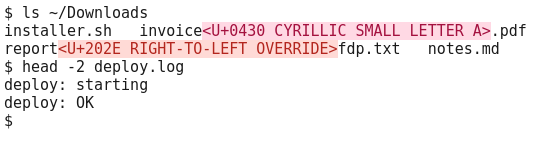
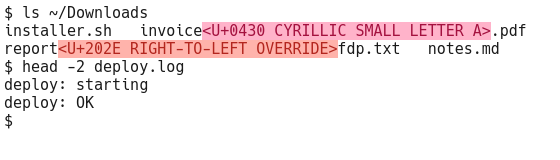
shots: regenerate the paste/copy review shots without dead space
- paste-warning/copy-warning: were 1180x258 with a screenful of empty pane below
  the one-line payload; regenerated tight at 1188x112 (panes sized to content,
  scrollbars off, trimmed to a uniform margin) by the fixed generator.
- index.html: update the two img width/height attrs to 1188x112 so the site
  reserves the right aspect (width:100%/height:auto derives it from the attrs).
- hero/display-modes: regenerated from the same deterministic pipeline with the
  app's Hack font; visually identical (AA-only), dimensions unchanged.

## AI-Assisted

diff --git a/index.html b/index.html
@@ -222,7 +222,7 @@
   <figure class="shot" style="max-width:1000px;margin:28px auto 0">
     <figcaption class="shotname"><b>The paste review</b> - a <code>curl | bash</code> line hiding two Cyrillic
       homoglyphs (in <code>example</code> and <code>bash</code>), a zero-width space and a right-to-left override.</figcaption>
-    <a href="/shots/paste-warning.webp" target="_blank" rel="noopener"><img src="/shots/paste-warning.webp" width="1180" height="258" loading="lazy" alt="secure-terminal's in-window paste-review bar showing the hostile paste four ways: the Original pane, where the bidi override reorders the trailing comment; the Detail pane, naming each hidden character inline in its risk-class colour as U+0430 CYRILLIC SMALL LETTER A, U+200B ZERO WIDTH SPACE and U+202E RIGHT-TO-LEFT OVERRIDE; the Paste-stripped pane, where the homoglyph domain collapses to exmple.com and 'bash' to 'bsh'; and the Paste-with-unicode pane, which keeps the look-alike example.com (its Cyrillic a tinted) but drops the invisibles. Both send buttons are countdown-disabled; only Reject is available immediately."></a>
+    <a href="/shots/paste-warning.webp" target="_blank" rel="noopener"><img src="/shots/paste-warning.webp" width="1188" height="112" loading="lazy" alt="secure-terminal's in-window paste-review bar showing the hostile paste four ways: the Original pane, where the bidi override reorders the trailing comment; the Detail pane, naming each hidden character inline in its risk-class colour as U+0430 CYRILLIC SMALL LETTER A, U+200B ZERO WIDTH SPACE and U+202E RIGHT-TO-LEFT OVERRIDE; the Paste-stripped pane, where the homoglyph domain collapses to exmple.com and 'bash' to 'bsh'; and the Paste-with-unicode pane, which keeps the look-alike example.com (its Cyrillic a tinted) but drops the invisibles. Both send buttons are countdown-disabled; only Reject is available immediately."></a>
     <figcaption>The four panes read left to right: the <b>Original</b> as it arrives, <b>Detail</b> naming every
       hidden character inline (<code>&lt;U+0430 CYRILLIC SMALL LETTER A&gt;</code>), and the two send previews -
       <b>Stripped</b> drops the look-alikes so the domain changes to <code>exmple.com</code>, while
@@ -232,7 +232,7 @@
   <figure class="shot" style="max-width:1000px;margin:28px auto 0">
     <figcaption class="shotname"><b>The same bar, for copy going the other way</b> - selecting and copying that
       same line in Show mode, before it reaches the system clipboard.</figcaption>
-    <a href="/shots/copy-warning.webp" target="_blank" rel="noopener"><img src="/shots/copy-warning.webp" width="1180" height="258" loading="lazy" alt="secure-terminal's review bar for a copy: the summary reads 'This copy would carry 1 bidirectional control, 1 invisible character, 2 non-ASCII characters onto the clipboard'; the four panes are Original, Detail (naming each hidden character in its risk-class colour), 'Copy stripped puts' (the homoglyph domain collapsed to exmple.com), and 'Copy with unicode puts' (the look-alike example.com kept, its Cyrillic a tinted). The buttons read Don't copy, Copy stripped, Copy with unicode, with no countdown since a copy is not executed."></a>
+    <a href="/shots/copy-warning.webp" target="_blank" rel="noopener"><img src="/shots/copy-warning.webp" width="1188" height="112" loading="lazy" alt="secure-terminal's review bar for a copy: the summary reads 'This copy would carry 1 bidirectional control, 1 invisible character, 2 non-ASCII characters onto the clipboard'; the four panes are Original, Detail (naming each hidden character in its risk-class colour), 'Copy stripped puts' (the homoglyph domain collapsed to exmple.com), and 'Copy with unicode puts' (the look-alike example.com kept, its Cyrillic a tinted). The buttons read Don't copy, Copy stripped, Copy with unicode, with no countdown since a copy is not executed."></a>
     <figcaption>Copy is reviewed with the <b>same bar</b>, just relabelled for the other direction (<b>Don't copy</b> /
       <b>Copy stripped</b> / <b>Copy with unicode</b>) and configured by its own setting. There is no countdown - a
       copy is not executed, so the anti-fat-finger gate the paste needs does not apply.</figcaption>
